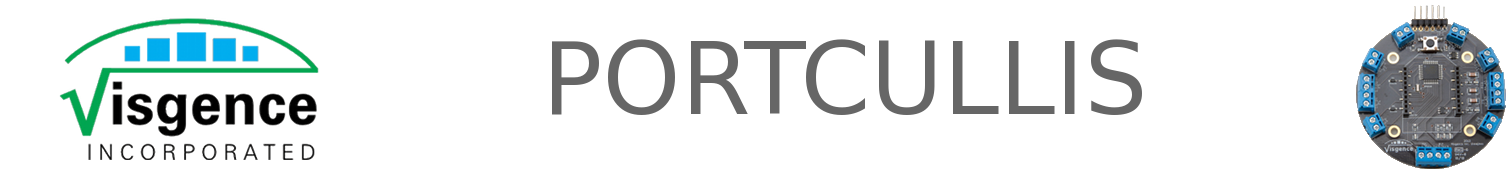
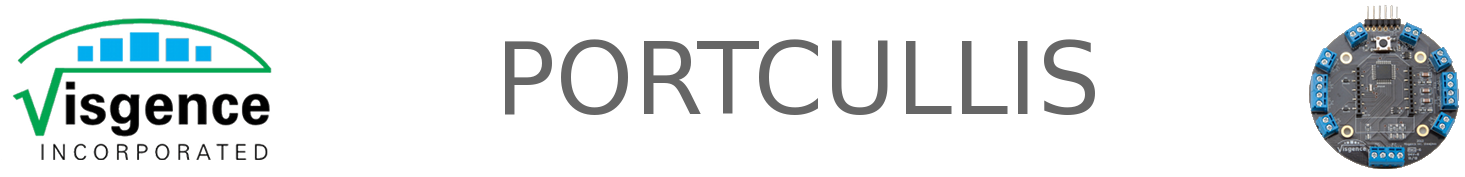
Resized branding and made it dynamically scale and other styles.

diff --git a/portcullis/static/css/base.css b/portcullis/static/css/base.css
@@ -1,14 +1,9 @@
-#main_page
+#header
 {
+    width: 1512px;
+    margin-left: auto;
+    margin-right: auto;
     position: relative;
-    height: 100%;
-    width: 90%;
-    margin-left: 5%;
-}
-
-#header, #greeting
-{
-    margin-left: 10em;
 }
 
 #base_content

diff --git a/graphs/static/css/display_nodes.css b/graphs/static/css/display_nodes.css
@@ -49,6 +49,7 @@
 {
     border: 1px solid gray;
     text-align: center;
+    width: 80%;
 }
 
 .date_range_seperator
@@ -66,7 +67,7 @@
 
 .portcullis-graph
 {
-    margin-left: 2.5em;
+    margin-left: 3em;
 }
 
 #graph_container
